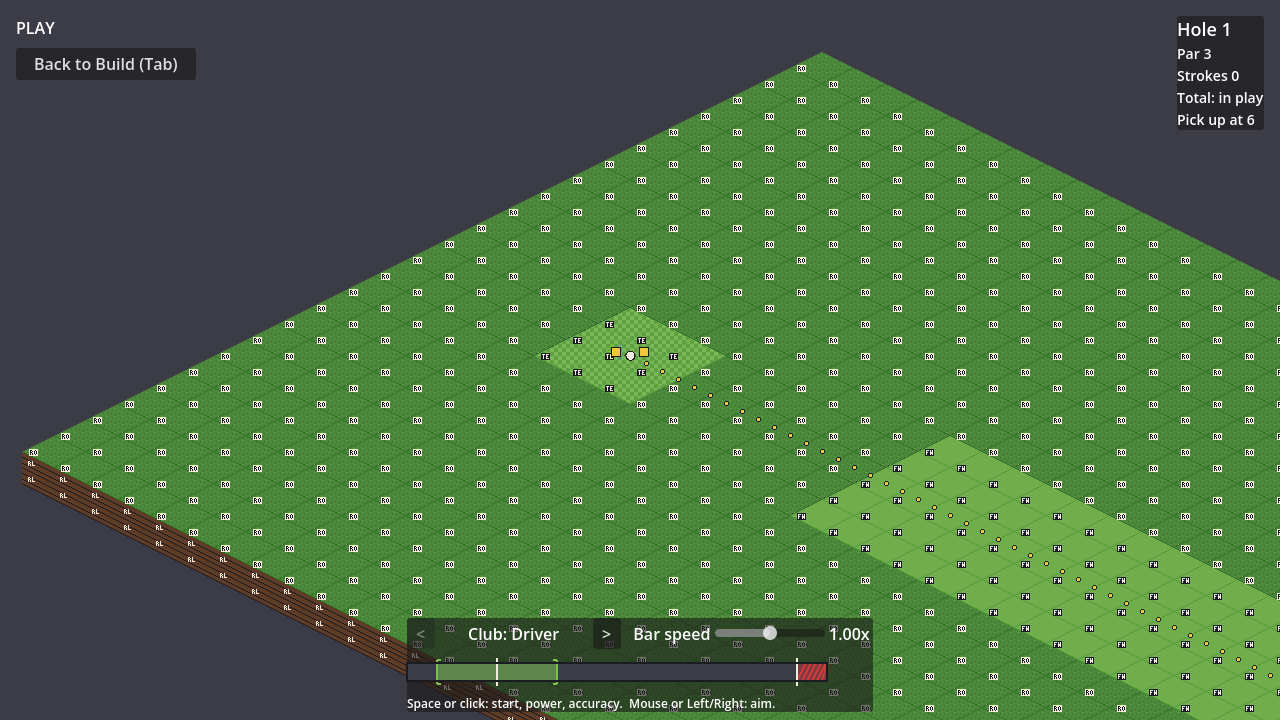
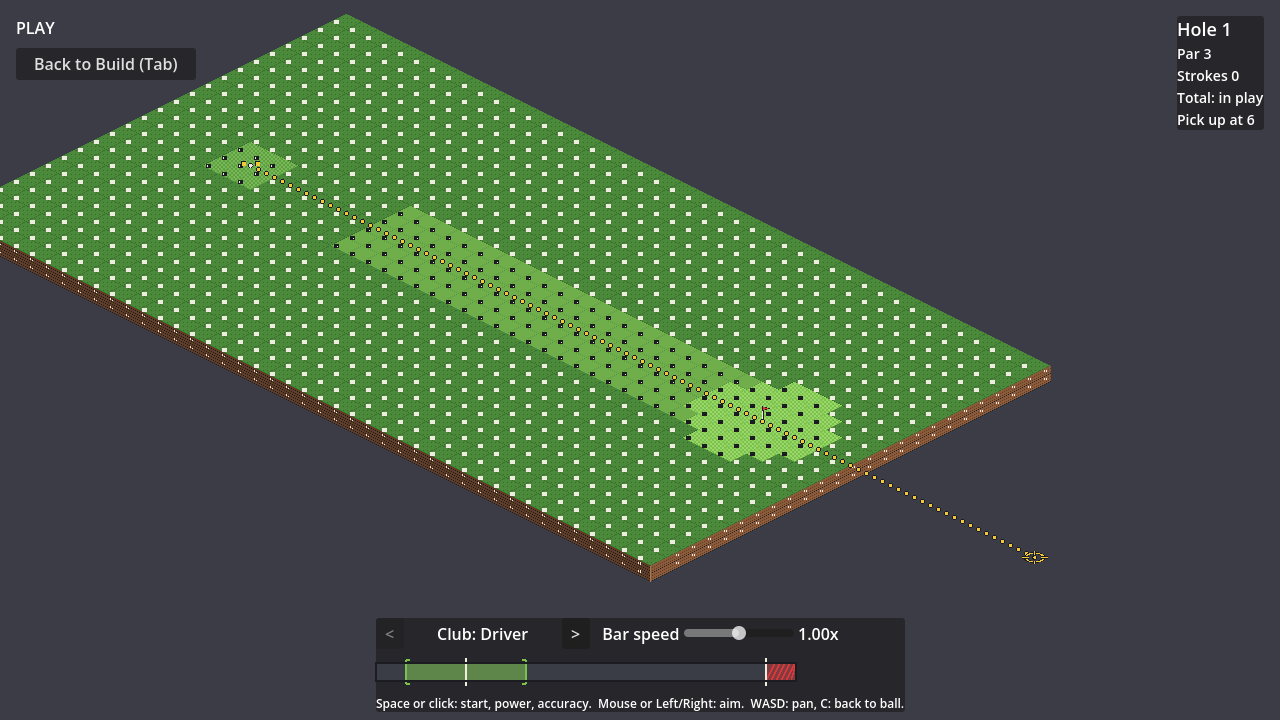
fix: E2-S8 frame the ball and aim marker together
While aiming, the play camera frames the ball and the aim marker,
zooming out (never past 0.5x) until both fit, so the pin and the
landing marker are visible from the tee (pillar 2). Flight follows
the ball alone. Review fix from the E2 swarm; the amend was blocked.

diff --git a/docs/design.md b/docs/design.md
@@ -10,7 +10,7 @@ Source of intent: the Claude Docs design doc "Prestwick, Game Design Doc". This 
 - Edge cue (E1-S10, `art/specs/edge_cue.md`): a tile higher than its back neighbour (x - 1 or y - 1) draws a lip line along that edge, a dark line outside the top and a bright one inside. One lip is a rise of one step, two lips are two or more, so the count reads in grayscale. Level or higher back neighbours and the map border get none. It draws over its tile's top and under objects on it. No tunables: the step classes are art frames.
 - Projection (`course/iso.gd`, the only one): tile (i, j) at height h has its center at screen `x = (i - j) * 32`, `y = (i + j) * 16 - h * 16`. Draw order is back to front by i + j, then risers bottom up, then the top.
 - Camera: zoom steps 0.5x, 1x, 2x; WASD pan 600 screen px/s at every zoom; middle-mouse drag; center may go 128 px past the course edge. Tuned in `scenes/camera_tuning.tres`.
-- Play camera (E2-S8, `scenes/course_camera.gd`): in Play the camera centres on the ball when Play starts (on the tee), when a shot starts, while the ball moves, and after it rests or is dropped. It eases onto the ball with a time constant of `centre_time` 0.15 s in `scenes/camera_tuning.tres` (95% of the way in 0.45 s; 0 jumps), so a moving ball stays centred without a jolt at each stroke. A pan (WASD or middle drag) stops the centring so the player can scout; `snap_camera` (C) snaps back to the ball and centres on it again. Zoom does not stop it. A shot starting centres on the ball even after a pan.
+- Play camera (E2-S8, `scenes/course_camera.gd`): in Play the camera centres on the ball when Play starts (on the tee), when a shot starts, while the ball moves, and after it rests or is dropped. It eases onto the ball with a time constant of `centre_time` 0.15 s in `scenes/camera_tuning.tres` (95% of the way in 0.45 s; 0 jumps), so a moving ball stays centred without a jolt at each stroke. A pan (WASD or middle drag) stops the centring so the player can scout; `snap_camera` (C) snaps back to the ball and centres on it again. Zoom does not stop it. A shot starting centres on the ball even after a pan. While the player aims at rest (E2-S8 review, pillar 2), the camera frames the ball and the aim marker together: it centres on their midpoint, held so the ball stays at least `aim_frame_margin` 64 screen px inside the edge, and when both do not fit it steps the zoom out (never past 0.5x) until they do. On `courses/example_par3.json` the driver's marker from the tee is (1568, 784) px away at 1x, so the tee opens at 0.5x; the 6-iron's (1005, 502) fits at 1x. A flight follows the ball alone at the zoom the aim chose, and the next aim (Play or the ball at rest) starts again from the player's own zoom, the level of their last zoom key. A zoom key wins over the fit until the next aim, and a panned camera never zooms. The swing panel hint names WASD (pan) and C (back to ball).
 - Brush sizes 1, 3, 5: an n x n square centered on the cursor tile, clipped to the map. Sizes and the undo depth (200 steps) are tuned in `course/builder_tuning.tres`.
 - Plot (D10): a new sandbox (E2-S3) is 128 x 128 tiles (640 yd along an edge, 905 yd corner to corner, about 85 acres), every tile rough at height 2. A par 5 needs more than 94 tiles of straight line (470 / 5), so a 520 yd par 5 (104 tiles) fits along an edge with 24 tiles to spare, with room for water on its line. Height 2 lets the builder dig two steps for water and bunkers and raise five. The plot's cost is E4-S1's. The main scene starts on this plot (E2-S8; `Main.course_path` empty, a failed load warns and falls back to it). New sandbox (a Build HUD button, `CourseBuilder.new_sandbox`) makes it from `plot_size`, `plot_surface` and `plot_ground` in `course/builder_tuning.tres` and hands it to a fresh builder (empty undo stack). Measured at 128 x 128 (E2-S3, RTX 3080, Godot 4.7.2 debug): drawing the whole plot takes about 190 ms once; `refresh_cell` 0.06 ms; frames 1.0 ms at 0.5x and 0.7 ms at 1x idle; an edit outside a drag, with its validator rerun, about 8.5 ms (p95 frame 11.8 ms raising a 5x5 brush every frame); a 50-tile drag about 19 ms in all, since a drag reruns the validator once, when it ends.
 - Out of bounds (D9): OB is off the map plus every `oob` tile. From E2-S3 `oob` is on the Build palette as OB ground, and course files already carry it (surface 8). Placed OB stakes stay in the Icebox. A ball that comes to rest OB costs one stroke and is dropped (Ball, Cup and hazards).
@@ -86,7 +86,7 @@ Shot model (D14). E2-S5 sets the numbers, E2-S7 builds the swing on it. Code (E2
 - Putter: the bar sets the putt's starting ground speed across the putter's range (E2-S5 sets the range, E2-S7 the mapping: linear, Swing above), not a carry.
 - Aim marker: for a full club, the first touchdown of a predicted perfect swing (100% power, accuracy at centre) with the selected club and lie, including rough, rise and tilt. For the putter, the rest point of a putt at 100%. Both come from the same Ball step as the flight (E1-S7), so a perfect swing lands within 1 tile of the marker.
 - Open feel question, the putter's marker (E2-S7 review, for the user's E2-S9 hand playtest or a `/decision`): a 100% putt rolls 27.5 yd on a flat green, so on `courses/example_par3.json` the marker sat 23.2, 21.0 and 17.5 yd past the cup for putts from 2, 5 and 10 yd short, and the dots show the break of that long roll, not of the putt needed. Roll is not linear in the bar (10% 2.1 yd, 50% 12.2 yd, 100% 27.5 yd), so the marker does not tell the power to use. Options: a marker at the power that reaches the cup's distance, or a distance scale on the bar for the putter. Built as D14 says until then.
-- Known limit, a ball at the foot of a riser (E2-S5 review, not yet decided): the flight starts at the ball's ground height and its first tick is checked against the ground, so a club whose launch is flatter than the face ahead meets it at once and its carry (the first touchdown) is about 0. A one-step riser's band is a 0.4 slope (21.8 degrees) and a two-step riser in one tile is 0.8 (38.7 degrees). Measured from the tile centre where the band begins, 100% power, lie on (`tests/test_clubs.gd`, `test_a_club_flatter_than_the_riser_ahead_meets_it_at_once`): on one step the driver, 3w, 3i, 4i and 5i carry under 2 yd and the 6i to SW fly (6i 147 yd, SW 96 yd); 1 yd further back the 4i and 5i fly and the driver, 3w and 3i still carry under 5 yd; 2 yd back only the driver and 3w are blocked. On two steps every club carries under 5 yd, the SW included (4.4 yd). A blocked ball does not always stop: the driver and 3w bounce off the face and run up and over it (about 110 and 80 yd total on one step), while the 8i, 9i and PW on two steps roll back behind the ball. So for these clubs the aim marker (first touchdown, above) sits at the ball's feet, and guests (E3) who pick a long club there meet the same face. How it should play (accept it and have the marker and club picker show a blocked club, give the first tick clearance over the start height, raise the lowest launch angle above 21.8 degrees, or leave it to the E2-S4 physics) was to be settled by a `/decision` before E2-S7 built the marker. It was not: the question was never put to the user, and E2-S7 shipped the marker as D14 says, from the same Ball step, so for such a club it sits at the ball's feet, the club picker does not flag it, and for the driver and 3w the marker does not match where the ball ends up. This gate is still open and is now due before E2-S8 or E3, whichever comes first: the four options go to the user as a clarifying question and the answer is recorded with `/decision`. The lies targets avoid it by flying the lie on flat fairway (Balance targets).
+- Known limit, a ball at the foot of a riser (E2-S5 review, not yet decided): the flight starts at the ball's ground height and its first tick is checked against the ground, so a club whose launch is flatter than the face ahead meets it at once and its carry (the first touchdown) is about 0. A one-step riser's band is a 0.4 slope (21.8 degrees) and a two-step riser in one tile is 0.8 (38.7 degrees). Measured from the tile centre where the band begins, 100% power, lie on (`tests/test_clubs.gd`, `test_a_club_flatter_than_the_riser_ahead_meets_it_at_once`): on one step the driver, 3w, 3i, 4i and 5i carry under 2 yd and the 6i to SW fly (6i 147 yd, SW 96 yd); 1 yd further back the 4i and 5i fly and the driver, 3w and 3i still carry under 5 yd; 2 yd back only the driver and 3w are blocked. On two steps every club carries under 5 yd, the SW included (4.4 yd). A blocked ball does not always stop: the driver and 3w bounce off the face and run up and over it (about 110 and 80 yd total on one step), while the 8i, 9i and PW on two steps roll back behind the ball. So for these clubs the aim marker (first touchdown, above) sits at the ball's feet, and guests (E3) who pick a long club there meet the same face. How it should play (accept it and have the marker and club picker show a blocked club, give the first tick clearance over the start height, raise the lowest launch angle above 21.8 degrees, or leave it to the E2-S4 physics) was to be settled by a `/decision` before E2-S7 built the marker. It was not: the question was never put to the user, and E2-S7 shipped the marker as D14 says, from the same Ball step, so for such a club it sits at the ball's feet, the club picker does not flag it, and for the driver and 3w the marker does not match where the ball ends up. This gate is still open. It was due before E2-S8 or E3, whichever came first; E2-S8 closed without it (E2-S8 does not change the marker or the club picker), so it is now due before E3 starts and blocks E3's first story: the four options go to the user as a clarifying question and the answer is recorded with `/decision`. The lies targets avoid it by flying the lie on flat fairway (Balance targets).
 
 Club legality (D13), checked in this order for each stroke:
 

diff --git a/docs/BACKLOG.md b/docs/BACKLOG.md
@@ -177,7 +177,7 @@ Planning notes:
   - Test: `tests/test_swing.gd`: 0%, 100% and 110%; the zone edges and just outside them (shank); bar speed at its minimum and maximum; and the two perfect-putt cases. A case in `tests/test_shot_prediction.gd`: a perfect swing lands within 1 tile of the marker. A new `tests/test_shot_view.gd`: the drawn y of a ball resting on a one-step green slope equals the projected top of the tile under it. Screenshots: the aim line and bar, and a ball resting on a one-step green slope.
   - Touches: `golf/`, `scenes/` (`tests/`)
 - [x] E2-S8 Play the hole end to end. Connect build, swing, ball and score.
-  - Done: `golf/hole_score.gd` (`HoleScore`, no scene) and `golf/score_rules.tres` (`pickup_par_multiple` 2, D12); SwingControl gives the live ball and the aim hole 1's cup, records each struck stroke's penalty and holed, starts the next stroke where the ball rests or was dropped, and stops at holed or picked up (a picked-up ball leaves the map). `scenes/score_card.gd` shows par, "Strokes n" with penalties named, double par on a pick-up, and the total to par once finished. A Play hole / Back to Build button (Tab still works). The play camera centres on the ball at Play, at the strike, in flight and at rest, easing with `centre_time` 0.15 s in `scenes/camera_tuning.tres`; a pan stops it and C (`snap_camera`) snaps back. The main scene starts on the D10 plot; the debug shot is F3 (`debug_shot`, Play, debug builds only). Tests that relied on the old startup course load `tests/fixtures/flat_20x20.json` or `courses/heights_20x20.json`. The smoke's E2 stage plays `courses/example_par3.json` with `scripts/scripted_round.gd` in 2 strokes (6-iron, putt). Screenshots: `docs/decisions/e2-s8-tee.png`, `docs/decisions/e2-s8-holed.png`. All in `docs/design.md` (Play camera, Plot, Play input, Scoring, Playing the hole, Debug shot).
+  - Done: `golf/hole_score.gd` (`HoleScore`, no scene) and `golf/score_rules.tres` (`pickup_par_multiple` 2, D12); SwingControl gives the live ball and the aim hole 1's cup, records each struck stroke's penalty and holed, starts the next stroke where the ball rests or was dropped, and stops at holed or picked up (a picked-up ball leaves the map). `scenes/score_card.gd` shows par, "Strokes n" with penalties named, double par on a pick-up, and the total to par once finished. A Play hole / Back to Build button (Tab still works). The play camera centres on the ball at Play, at the strike, in flight and at rest, easing with `centre_time` 0.15 s in `scenes/camera_tuning.tres`; a pan stops it and C (`snap_camera`) snaps back. The main scene starts on the D10 plot; the debug shot is F3 (`debug_shot`, Play, debug builds only). Tests that relied on the old startup course load `tests/fixtures/flat_20x20.json` or `courses/heights_20x20.json`. The smoke's E2 stage plays `courses/example_par3.json` with `scripts/scripted_round.gd` in 2 strokes (6-iron, putt). Screenshots: `docs/decisions/e2-s8-tee.png`, `docs/decisions/e2-s8-holed.png`. While aiming at rest the camera frames the ball and the aim marker together, stepping the zoom out when both do not fit (`aim_frame_margin` 64 px in `scenes/camera_tuning.tres`; the driver's marker on `courses/example_par3.json` opens the tee at 0.5x), and the swing panel hint names WASD and C (E2-S8 review, pillar 2). All in `docs/design.md` (Play camera, Plot, Play input, Scoring, Playing the hole, Debug shot). Still pending: the riser-foot marker gate (design.md Shot model, "Known limit") was due before E2-S8 or E3 and was not settled here; it is now due before E3 starts, as a clarifying question to the user and a `/decision`.
   - Settles: the play camera: centring on the ball, and the snap-back key and its tuning value in `scenes/camera_tuning.tres`. Zoom steps and pan already exist.
   - Accept:
     - One click from Build puts you on the tee of the hole you just shaped, with no scene load (D2).
